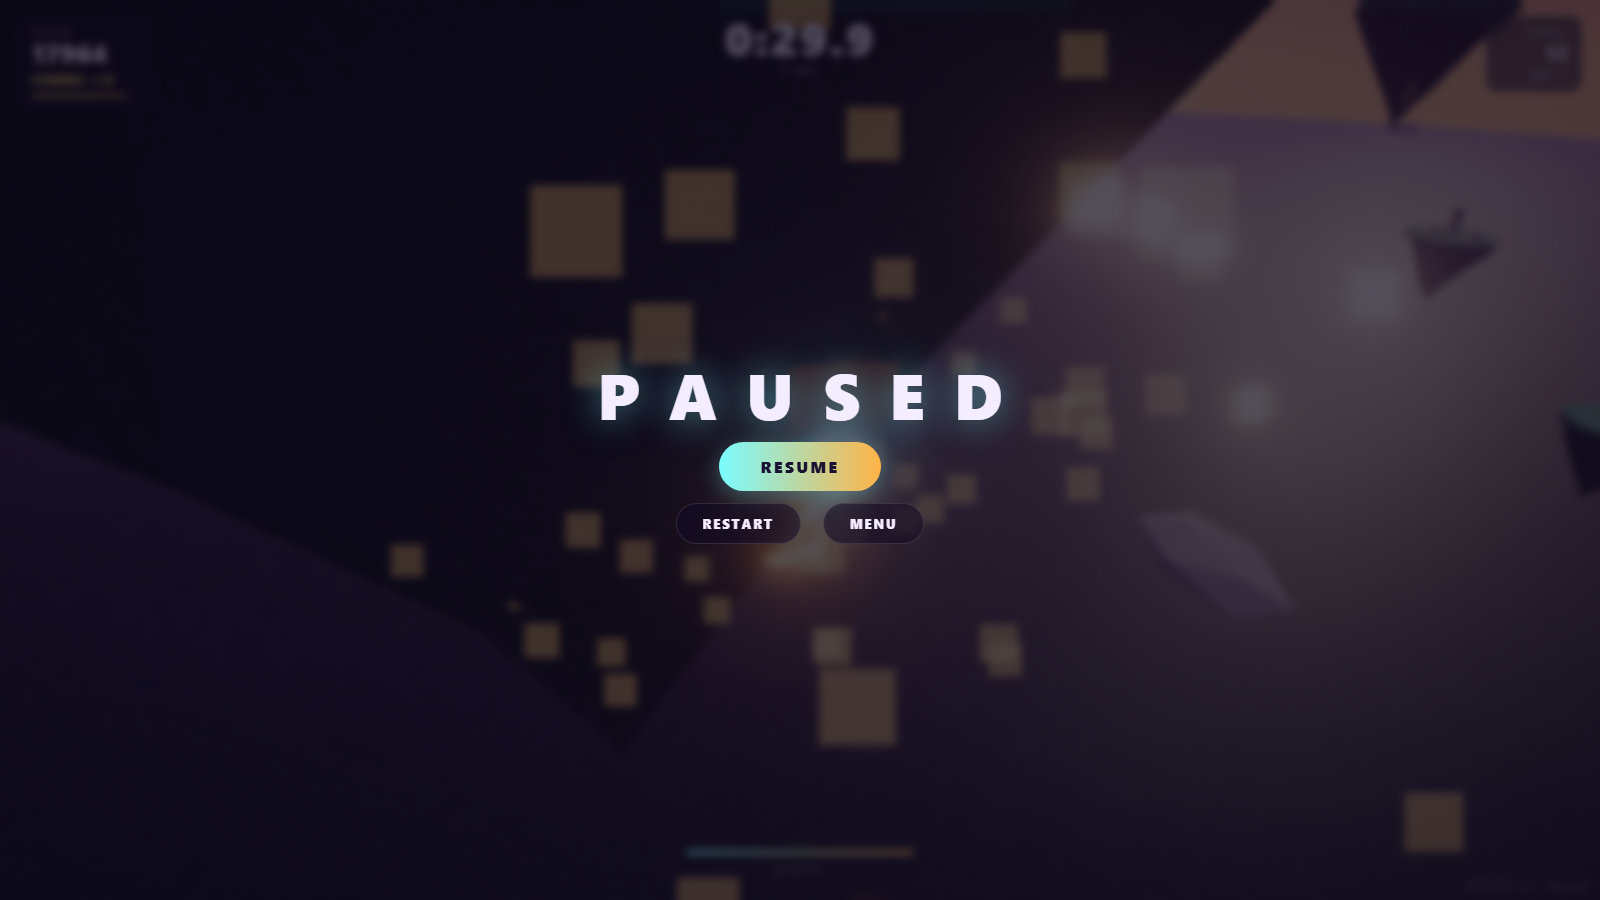
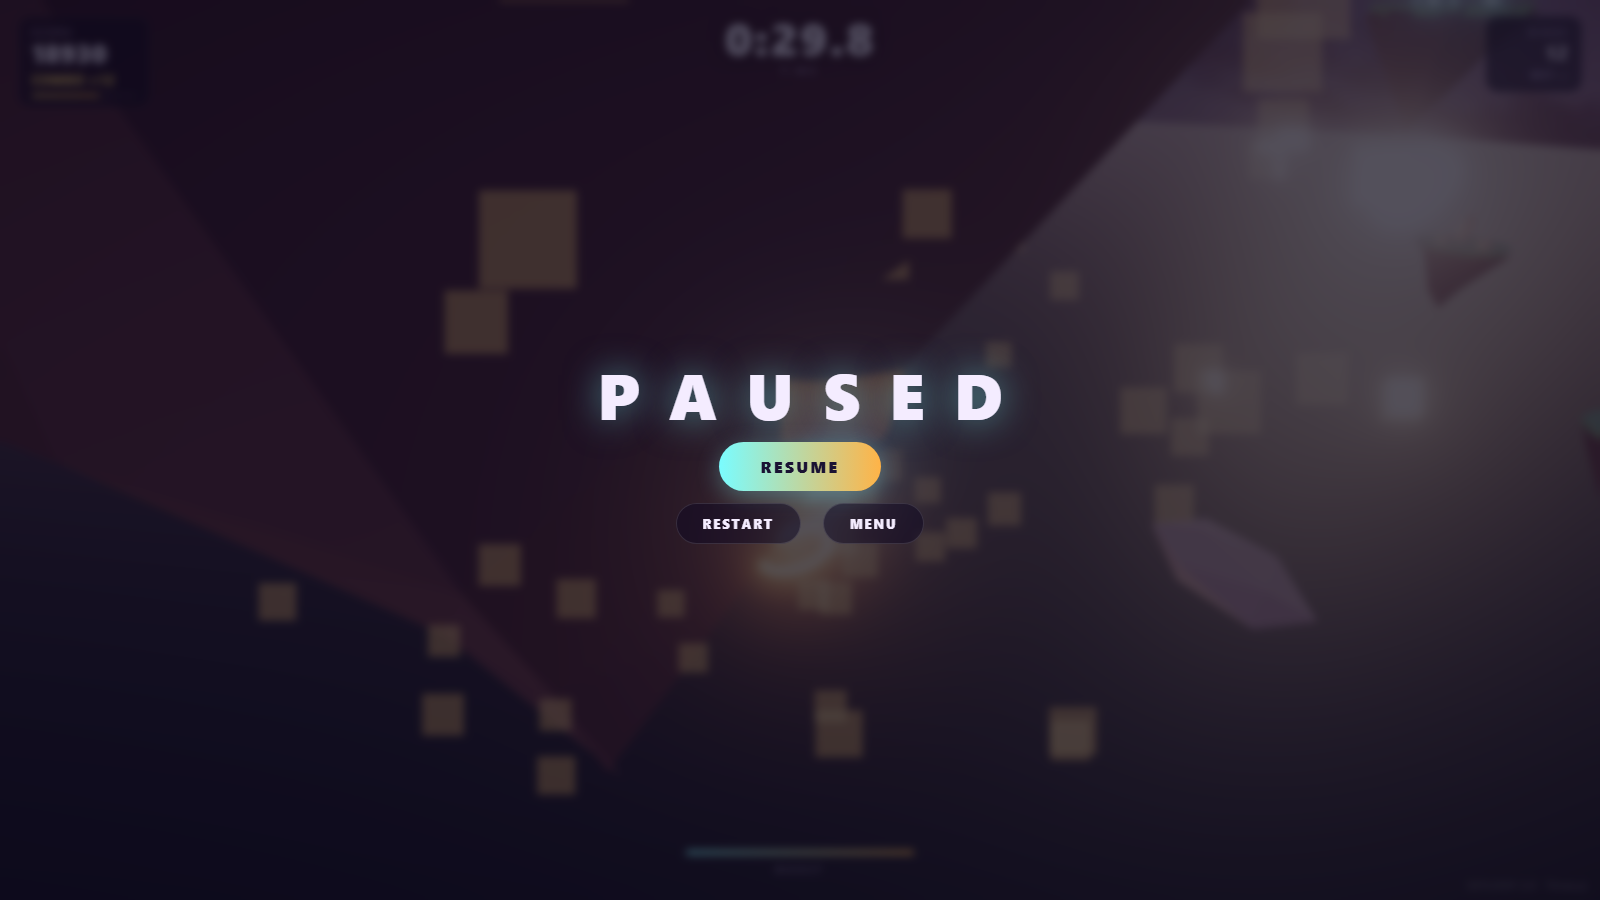
SKYLOOP polish: remove film grain, big perf pass, generated sky in the 3D world
Addresses direct feedback (grain ugly, perf bad, world used no generated art):

Visual:
- Removed the per-frame film grain entirely from the post FX shader.
- Replaced the flat 4-stop gradient sky with a Magnific-generated equirectangular
  (2:1) dusk panorama as scene.background AND scene.environment (PMREM IBL) — real
  generated art now lives in the 3D world and lights every PBR surface.
- Added a warm rim light + cooler hemisphere; warmed/lowered the fog to match.

Performance (per a multi-agent perf audit):
- Merged the ~250 static world meshes into ~9 (one per material) via
  BufferGeometryUtils — collapses draw calls.
- Post FX: dropped MSAA 4->2, pixelRatio 2->1.5, and gated the radial speed-blur +
  chromatic aberration to boost-only (a single texture fetch at cruise).
- Fixed an unbounded leak: collected/missed rings are now disposed and retired so
  course[] and the scene graph stay ~13 rings instead of growing all run.
- Removed per-frame heap churn: reuse three Eulers and pool the burst velocities;
  recompute cape normals every 4th frame; removed the hidden-tab render loop.

Verified: 14/14 headless checks, zero console errors, scene mesh count ~25.

diff --git a/src/main.js b/src/main.js
@@ -9,6 +9,7 @@ import { UnrealBloomPass } from 'three/addons/postprocessing/UnrealBloomPass.js'
 import { ShaderPass } from 'three/addons/postprocessing/ShaderPass.js';
 import { OutputPass } from 'three/addons/postprocessing/OutputPass.js';
 import { GLTFLoader } from 'three/addons/loaders/GLTFLoader.js';
+import * as BufferGeometryUtils from 'three/addons/utils/BufferGeometryUtils.js';
 import { createAudio } from './audio.js';
 
 const audio = createAudio();
@@ -44,31 +45,39 @@ function glowTexture(inner, outer) {
 
 // ------------------------------------------------------------ renderer/scene
 const renderer = new THREE.WebGLRenderer({ antialias: true });
-renderer.setPixelRatio(Math.min(devicePixelRatio, 2));
+renderer.setPixelRatio(Math.min(devicePixelRatio, 1.5));
 renderer.setSize(innerWidth, innerHeight);
 renderer.toneMapping = THREE.ACESFilmicToneMapping;
 renderer.toneMappingExposure = 1.08;
 document.body.appendChild(renderer.domElement);
 
 const scene = new THREE.Scene();
-scene.fog = new THREE.FogExp2(0x9a6e96, 0.0013);
+scene.fog = new THREE.FogExp2(0xc7a3aa, 0.00085);
 
 const camera = new THREE.PerspectiveCamera(62, innerWidth / innerHeight, 0.1, 4000);
 camera.position.set(0, 90, 200);
 
-const sky = new THREE.Mesh(new THREE.SphereGeometry(1900, 24, 16), new THREE.ShaderMaterial({
-  side: THREE.BackSide, depthWrite: false, fog: false,
-  uniforms: { zenith: { value: new THREE.Color(0x241a4f) }, mid: { value: new THREE.Color(0x6f4d8c) }, horizon: { value: new THREE.Color(0xff9d76) }, below: { value: new THREE.Color(0x33264a) } },
-  vertexShader: `varying vec3 vDir; void main(){ vDir = normalize(position); gl_Position = projectionMatrix * modelViewMatrix * vec4(position,1.0); }`,
-  fragmentShader: `uniform vec3 zenith; uniform vec3 mid; uniform vec3 horizon; uniform vec3 below; varying vec3 vDir;
-    void main(){ float h=vDir.y; vec3 col = h<0.0 ? mix(horizon,below,smoothstep(0.0,-0.45,h)) : h<0.25 ? mix(horizon,mid,smoothstep(0.0,0.25,h)) : mix(mid,zenith,smoothstep(0.25,0.9,h)); gl_FragColor=vec4(col,1.0); }`,
-}));
-scene.add(sky);
+// Lighting: cool hemisphere fill + warm key sun + a low warm rim to separate
+// islands from the sky. The equirectangular panorama below also drives
+// image-based lighting (scene.environment), which lifts every PBR material.
+scene.add(new THREE.HemisphereLight(0xcdb4ff, 0x4a3a63, 0.7));
+const sun = new THREE.DirectionalLight(0xffd9b0, 1.7); sun.position.set(-500, 420, -900); scene.add(sun);
+const rim = new THREE.DirectionalLight(0xffc9a0, 0.6); rim.position.set(380, 130, 640); scene.add(rim);
 
-scene.add(new THREE.HemisphereLight(0xcdb4ff, 0x3a2c4f, 0.85));
-const sun = new THREE.DirectionalLight(0xffd9b0, 2.0); sun.position.set(-500, 420, -900); scene.add(sun);
-const sunSprite = new THREE.Sprite(new THREE.SpriteMaterial({ map: glowTexture('rgba(255,236,200,1)', 'rgba(255,160,90,0.55)'), blending: THREE.AdditiveBlending, depthWrite: false, fog: false }));
-sunSprite.position.set(-700, 540, -1500); sunSprite.scale.setScalar(560); scene.add(sunSprite);
+// Generated equirectangular dusk sky panorama = the actual sky + IBL.
+// Loaded from assets/manifest.json (skyPanorama) so a missing file never 404s;
+// until it loads, a flat dusk colour stands in.
+scene.background = new THREE.Color(0x2a1f4a);
+const pmrem = new THREE.PMREMGenerator(renderer); pmrem.compileEquirectangularShader();
+fetch('./assets/manifest.json').then((r) => (r.ok ? r.json() : Promise.reject(new Error('no manifest')))).then((m) => {
+  if (!m.skyPanorama) return;
+  new THREE.TextureLoader().load(`./assets/${m.skyPanorama}`, (tex) => {
+    tex.mapping = THREE.EquirectangularReflectionMapping;
+    tex.colorSpace = THREE.SRGBColorSpace;
+    scene.background = tex;
+    scene.environment = pmrem.fromEquirectangular(tex).texture;
+  });
+}).catch(() => {});
 
 // ---------------------------------------------------------------- the world
 const world = new THREE.Group(); scene.add(world);
@@ -103,6 +112,33 @@ const hub = makeIsland(34, true); hub.position.set(0, 48, 0); world.add(hub);
 for (let i = 0; i < 18; i++) { const w = rand(2.4, 5), h = rand(6, 26), a = rand(0, Math.PI * 2), d = rand(6, 26); const x = Math.cos(a) * d, z = Math.sin(a) * d; const b = new THREE.Mesh(new THREE.BoxGeometry(w, h, w), towerMat); b.position.set(x, 48 + h * 0.5, z); b.rotation.y = rand(0, Math.PI); world.add(b); const s = new THREE.Mesh(new THREE.BoxGeometry(w * 0.5, h * 0.75, w * 0.16), windowMat); s.position.set(x, 48 + h * 0.5, z); s.rotation.y = b.rotation.y; s.translateZ(w * 0.48); world.add(s); }
 const beaconTip = new THREE.Mesh(new THREE.SphereGeometry(2.6, 12, 12), new THREE.MeshStandardMaterial({ color: 0xfff3d0, emissive: 0xffc36b, emissiveIntensity: 2.4 })); beaconTip.position.set(0, 78, 0); world.add(beaconTip);
 const sea = new THREE.Mesh(new THREE.CircleGeometry(1700, 48), new THREE.MeshStandardMaterial({ color: 0x16314f, roughness: 0.55, metalness: 0.25 })); sea.rotation.x = -Math.PI / 2; sea.position.y = -42; world.add(sea);
+
+// The world is static, so merge its hundreds of meshes into one mesh per
+// material (~250 draw calls -> ~9). Only mutates the tree if every merge
+// succeeds, so a failure leaves the unmerged world intact.
+function mergeStatic(root) {
+  root.updateMatrixWorld(true);
+  const byMat = new Map(); const originals = [];
+  root.traverse((o) => {
+    if (!o.isMesh || !o.geometry || !o.material || o.material.transparent) return;
+    const k = o.material.uuid;
+    if (!byMat.has(k)) byMat.set(k, { mat: o.material, geos: [] });
+    const g = o.geometry.clone(); g.applyMatrix4(o.matrixWorld);
+    for (const a of Object.keys(g.attributes)) { if (!['position', 'normal', 'uv'].includes(a)) g.deleteAttribute(a); }
+    byMat.get(k).geos.push(g); originals.push(o);
+  });
+  const merged = [];
+  try {
+    for (const { mat, geos } of byMat.values()) {
+      const mg = BufferGeometryUtils.mergeGeometries(geos, false);
+      if (!mg) throw new Error('merge returned null');
+      merged.push(new THREE.Mesh(mg, mat)); geos.forEach((g) => g.dispose());
+    }
+  } catch (e) { console.warn('mergeStatic skipped:', e.message); return; }
+  for (const o of originals) o.parent && o.parent.remove(o);
+  for (const mesh of merged) { mesh.frustumCulled = false; root.add(mesh); }
+}
+mergeStatic(world);
 
 const cloudGeo = new THREE.IcosahedronGeometry(1, 0);
 const clouds = new THREE.InstancedMesh(cloudGeo, new THREE.MeshLambertMaterial({ color: 0xfff4ec, transparent: true, opacity: 0.8 }), 80);
@@ -167,11 +203,11 @@ const trailGeo = new THREE.BufferGeometry(); trailGeo.setAttribute('position', n
 const trail = new THREE.Points(trailGeo, new THREE.PointsMaterial({ size: 1.1, vertexColors: true, transparent: true, map: glowTexture('rgba(190,245,255,1)', 'rgba(100,200,255,0.45)'), blending: THREE.AdditiveBlending, depthWrite: false, sizeAttenuation: true })); trail.frustumCulled = false; scene.add(trail);
 
 // Collect burst
-const BURST_N = 80; const burstPos = new Float32Array(BURST_N * 3); const burstVel = [];
+const BURST_N = 80; const burstPos = new Float32Array(BURST_N * 3); const burstVel = Array.from({ length: BURST_N }, () => new THREE.Vector3());
 const burstGeo = new THREE.BufferGeometry(); burstGeo.setAttribute('position', new THREE.BufferAttribute(burstPos, 3));
 const burst = new THREE.Points(burstGeo, new THREE.PointsMaterial({ size: 1.3, color: 0xffc36b, transparent: true, opacity: 0, blending: THREE.AdditiveBlending, depthWrite: false })); burst.frustumCulled = false; scene.add(burst);
 let burstLife = 0;
-function fireBurst(centre, color) { burst.material.color.set(color); for (let i = 0; i < BURST_N; i++) { burstPos[i * 3] = centre.x; burstPos[i * 3 + 1] = centre.y; burstPos[i * 3 + 2] = centre.z; burstVel[i] = new THREE.Vector3(rand(-1, 1), rand(-1, 1), rand(-1, 1)).normalize().multiplyScalar(rand(10, 30)); } burstGeo.attributes.position.needsUpdate = true; burstLife = 1; }
+function fireBurst(centre, color) { burst.material.color.set(color); for (let i = 0; i < BURST_N; i++) { burstPos[i * 3] = centre.x; burstPos[i * 3 + 1] = centre.y; burstPos[i * 3 + 2] = centre.z; burstVel[i].set(rand(-1, 1), rand(-1, 1), rand(-1, 1)).normalize().multiplyScalar(rand(10, 30)); } burstGeo.attributes.position.needsUpdate = true; burstLife = 1; }
 
 // ----------------------------------------------------------- the ring course
 const RING_TYPES = {
@@ -219,7 +255,7 @@ function spawnRing() {
 }
 
 function resetCourse() {
-  for (const r of course) scene.remove(r.group);
+  for (const r of course) disposeRing(r);
   course.length = 0; targetIndex = 0;
   rng = mulberry32(SEED + state.runs);
   courseHead.set(0, 100, 120);
@@ -228,32 +264,34 @@ function resetCourse() {
 }
 
 // ----------------------------------------------------------- post-processing
-const composer = new EffectComposer(renderer, new THREE.WebGLRenderTarget(innerWidth, innerHeight, { samples: 4, type: THREE.HalfFloatType }));
+const composer = new EffectComposer(renderer, new THREE.WebGLRenderTarget(innerWidth, innerHeight, { samples: 2, type: THREE.HalfFloatType }));
 composer.addPass(new RenderPass(scene, camera));
 const bloom = new UnrealBloomPass(new THREE.Vector2(innerWidth, innerHeight), 0.9, 0.55, 0.6);
 composer.addPass(bloom);
 
+// Cheap, clean post: NO film grain. A single tap + a soft vignette at cruise;
+// the radial speed-streak and chromatic fringe only switch on while boosting
+// (a true no-op otherwise), so the common case is one texture fetch per pixel.
 const FXShader = {
-  uniforms: { tDiffuse: { value: null }, time: { value: 0 }, grain: { value: 0.03 }, vignette: { value: 0.34 }, speed: { value: 0 }, aberration: { value: 0 }, flash: { value: 0 } },
+  uniforms: { tDiffuse: { value: null }, vignette: { value: 0.3 }, speed: { value: 0 }, aberration: { value: 0 }, flash: { value: 0 } },
   vertexShader: `varying vec2 vUv; void main(){ vUv = uv; gl_Position = projectionMatrix * modelViewMatrix * vec4(position,1.0); }`,
   fragmentShader: `
-    uniform sampler2D tDiffuse; uniform float time; uniform float grain; uniform float vignette; uniform float speed; uniform float aberration; uniform float flash;
+    uniform sampler2D tDiffuse; uniform float vignette; uniform float speed; uniform float aberration; uniform float flash;
     varying vec2 vUv;
-    float hash(vec2 p){ return fract(sin(dot(p, vec2(12.9898,78.233)))*43758.5453); }
     void main(){
       vec2 dir = vUv - 0.5;
-      // radial speed blur — samples streak toward centre as speed rises
-      vec3 col = vec3(0.0); float total = 0.0;
-      for (int i = 0; i < 6; i++){ float t = float(i)/5.0; float s = 1.0 - t*speed*0.18; vec2 uv = 0.5 + dir*s; float w = 1.0 - t*0.5; col += texture2D(tDiffuse, uv).rgb * w; total += w; }
-      col /= total;
-      // chromatic aberration toward the edges, stronger on boost
-      float ab = aberration*0.012 + length(dir)*aberration*0.01;
-      col.r = texture2D(tDiffuse, vUv + dir*ab).r;
-      col.b = texture2D(tDiffuse, vUv - dir*ab).b;
-      // grain + vignette + flash
-      float n = hash(vUv*(1.0+fract(time))*1000.0)*2.0-1.0;
-      col += n*grain;
-      col *= 1.0 - smoothstep(0.3,0.85, length(dir)*1.05)*vignette;
+      vec3 col = texture2D(tDiffuse, vUv).rgb;
+      if (speed > 0.001) {
+        vec3 acc = vec3(0.0); float total = 0.0;
+        for (int i = 0; i < 4; i++){ float t = float(i)/3.0; float s = 1.0 - t*speed*0.12; float w = 1.0 - t*0.5; acc += texture2D(tDiffuse, 0.5 + dir*s).rgb * w; total += w; }
+        col = acc/total;
+      }
+      if (aberration > 0.001) {
+        float ab = aberration*0.006 + length(dir)*aberration*0.005;
+        col.r = texture2D(tDiffuse, vUv + dir*ab).r;
+        col.b = texture2D(tDiffuse, vUv - dir*ab).b;
+      }
+      col *= 1.0 - smoothstep(0.32, 0.9, length(dir)*1.05)*vignette;
       col += flash;
       gl_FragColor = vec4(col,1.0);
     }`,
@@ -366,6 +404,9 @@ boostBtn.addEventListener('pointerleave', () => { touchBoost = false; boostBtn.c
 // ----------------------------------------------------------------- main loop
 const clock = new THREE.Clock();
 const fwd = new THREE.Vector3(), camOffset = new THREE.Vector3(), camTarget = new THREE.Vector3(), lookTarget = new THREE.Vector3(), toCentre = new THREE.Vector3(), ndc = new THREE.Vector3(), trailSpawn = new THREE.Vector3(), tmp = new THREE.Vector3();
+// Pre-allocated Eulers reused every frame (no per-frame heap churn).
+const eFwd = new THREE.Euler(0, 0, 0, 'YXZ'), eHero = new THREE.Euler(0, 0, 0, 'YXZ'), eCam = new THREE.Euler(0, 0, 0, 'YXZ');
+let frameCount = 0;
 
 function animate() {
   const dtReal = Math.min(clock.getDelta(), 0.05);
@@ -411,7 +452,7 @@ function animate() {
   state.speed = THREE.MathUtils.damp(state.speed, playing ? target : (state.mode === STATE.COUNTDOWN ? BASE_SPEED * 0.3 : 0), 2.4, dt);
   if (playing) state.topSpeed = Math.max(state.topSpeed, state.speed);
 
-  fwd.set(0, 0, -1).applyEuler(new THREE.Euler(state.pitch, state.yaw, 0, 'YXZ'));
+  eFwd.set(state.pitch, state.yaw, 0); fwd.set(0, 0, -1).applyEuler(eFwd);
   if (state.mode === STATE.PLAYING || state.mode === STATE.COUNTDOWN) hero.position.addScaledVector(fwd, state.speed * dt);
 
   // soft bounds
@@ -419,14 +460,15 @@ function animate() {
   if (horiz > WORLD_RADIUS) { const desired = Math.atan2(toCentre.x / horiz, toCentre.z / horiz) + Math.PI; let d = desired - state.yaw; d = Math.atan2(Math.sin(d), Math.cos(d)); state.yaw += d * dt * 1.2; }
   hero.position.y = THREE.MathUtils.clamp(hero.position.y, -10, 360);
 
-  hero.quaternion.setFromEuler(new THREE.Euler(state.pitch, state.yaw, 0, 'YXZ'));
+  eHero.set(state.pitch, state.yaw, 0); hero.quaternion.setFromEuler(eHero);
   heroPose.rotation.z = state.roll; heroPose.rotation.x = pitchIn * 0.16;
   if (glbMixer) glbMixer.update(dt);
 
-  // cape
+  // cape — normals only need refreshing a few times a second, not every frame
+  frameCount++;
   const cp = capeGeo.attributes.position; const flutter = 0.1 + (state.speed / BOOST_SPEED) * 0.22;
   for (let i = 0; i < cp.count; i++) { const bx = capeBase[i * 3], bz = capeBase[i * 3 + 2], tail = bz / 2.3; cp.setY(i, Math.sin(bz * 2.4 - t * 7) * flutter * tail + Math.sin(bx * 3 + t * 4.4) * flutter * 0.35 * tail + tail * tail * 0.5); }
-  cp.needsUpdate = true; capeGeo.computeVertexNormals();
+  cp.needsUpdate = true; if ((frameCount & 3) === 0) capeGeo.computeVertexNormals();
 
   const boostAmt = THREE.MathUtils.clamp((state.speed - BASE_SPEED) / (BOOST_SPEED - BASE_SPEED), 0, 1);
   boostGlow.scale.setScalar(0.001 + boostAmt * 1.4 + Math.sin(t * 31) * 0.1 * boostAmt);
@@ -463,7 +505,7 @@ function animate() {
 
   // camera
   const camDist = 9.5 + boostAmt * 3.0;
-  camOffset.set(0, 2.6 + state.pitch * -1.2, camDist).applyEuler(new THREE.Euler(state.pitch * 0.45, state.yaw, 0, 'YXZ'));
+  eCam.set(state.pitch * 0.45, state.yaw, 0); camOffset.set(0, 2.6 + state.pitch * -1.2, camDist).applyEuler(eCam);
   camTarget.copy(hero.position).add(camOffset);
   camera.position.lerp(camTarget, 1 - Math.exp(-6.5 * dtReal));
   state.shake = Math.max(0, state.shake - dtReal * 2.2);
@@ -473,10 +515,8 @@ function animate() {
   camera.fov = THREE.MathUtils.damp(camera.fov, 62 + boostAmt * 18 + (state.hitStop > 0 ? -6 : 0), 5, dtReal); camera.updateProjectionMatrix();
 
   // post + HUD
-  fxPass.uniforms.time.value = t;
   fxPass.uniforms.speed.value = THREE.MathUtils.damp(fxPass.uniforms.speed.value, boostAmt, 6, dtReal);
   fxPass.uniforms.aberration.value = boostAmt;
-  fxPass.uniforms.grain.value = 0.03 + boostAmt * 0.035;
   bloom.strength = 0.9 + boostAmt * 0.35;
 
   if (playing || state.mode === STATE.RESULTS) {
@@ -527,13 +567,20 @@ function collectRing(r) {
   advanceTarget();
 }
 function missRing(r) { r.collected = true; r.group.visible = false; state.combo = 0; advanceTarget(); }
-function advanceTarget() { targetIndex++; while (course.length - targetIndex < AHEAD) spawnRing(); }
+function disposeRing(r) { scene.remove(r.group); r.group.traverse((o) => { if (o.geometry) o.geometry.dispose(); if (o.material) o.material.dispose(); }); }
+function advanceTarget() {
+  targetIndex++;
+  while (course.length - targetIndex < AHEAD) spawnRing();
+  // Retire rings well behind the player so course[] and the scene graph stay
+  // bounded (~13 rings) instead of growing for the entire run.
+  while (targetIndex > 8) { disposeRing(course.shift()); targetIndex--; }
+}
 
 // initial menu
 toMenu();
 function loop() { animate(); requestAnimationFrame(loop); }
+// (No hidden-tab render fallback — rendering a backgrounded tab wastes GPU/battery.)
 requestAnimationFrame(loop);
-setInterval(() => { if (document.hidden) animate(); }, 33);
 
 addEventListener('resize', () => { camera.aspect = innerWidth / innerHeight; camera.updateProjectionMatrix(); renderer.setSize(innerWidth, innerHeight); composer.setSize(innerWidth, innerHeight); bloom.setSize(innerWidth, innerHeight); });
 

diff --git a/assets/GENERATED-ASSETS.md b/assets/GENERATED-ASSETS.md
@@ -21,6 +21,15 @@ These came out remarkably close to SKYLOOP's actual procedural world (teal hero 
 amber cape, floating islands, amber rings, lit beacon city), so they double as
 honest key art rather than generic splash images.
 
+## In-game sky (tool: `images_generate`, model `seedream-4-5`, 2:1)
+
+- **sky-b.jpg** — equirectangular (2:1) dusk panorama used as the actual in-game
+  sky (`scene.background`) AND the image-based lighting environment
+  (`scene.environment` via PMREM), so every PBR surface catches the dusk. This
+  is generated art inside the 3D world, not just a menu backdrop. **sky-a.jpg**
+  is an alternate. Prompt: a seamless equirectangular dusk sky, deep indigo
+  zenith to warm amber/peach horizon, soft volumetric clouds, no ground.
+
 ## Hero concept (tool: `images_generate`, model `seedream-4-5`, 2:3)
 
 - **hero-concept.jpg** — the "Aurora" character concept (front A-pose, plain
